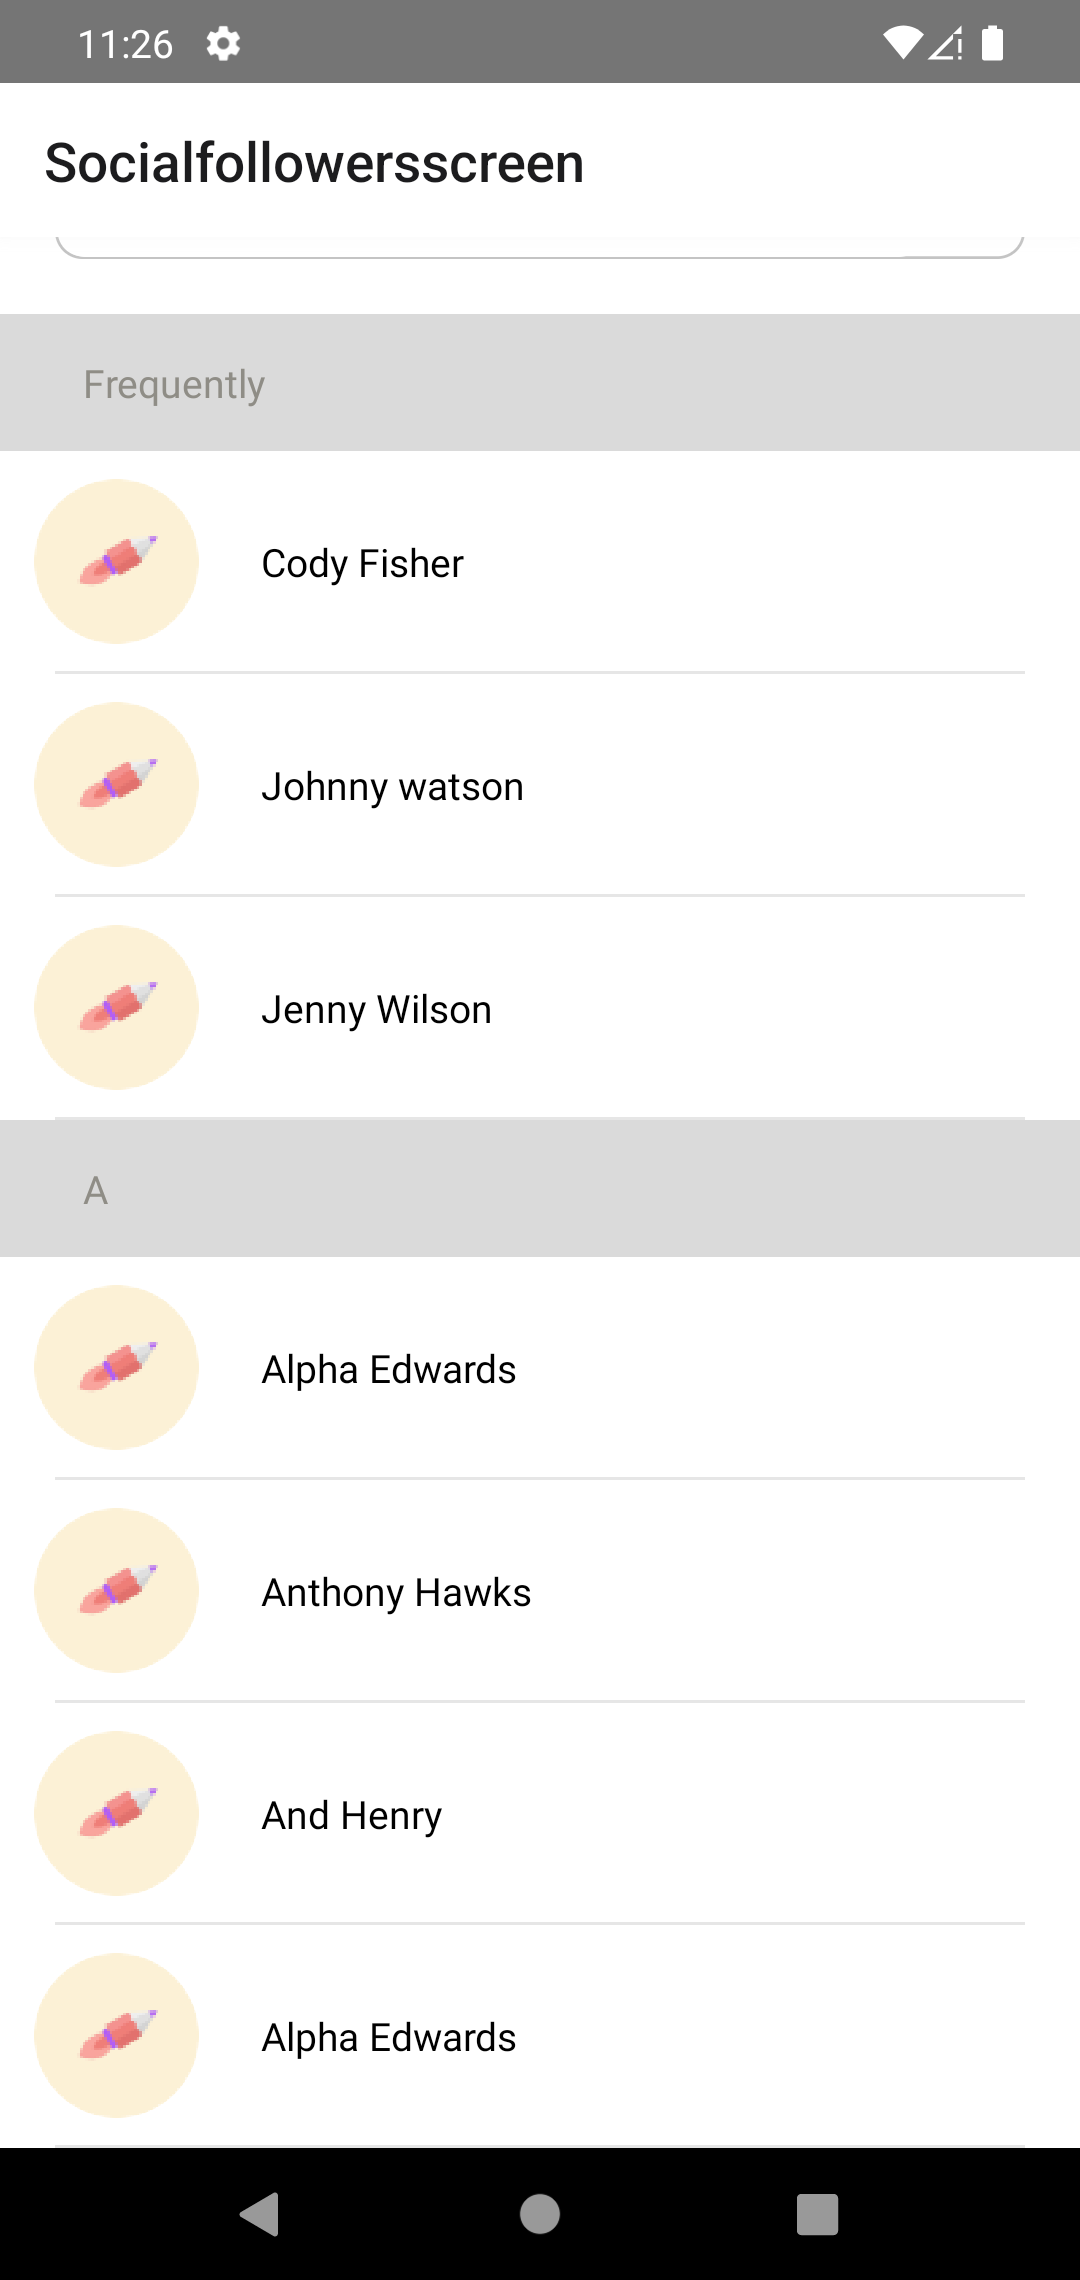
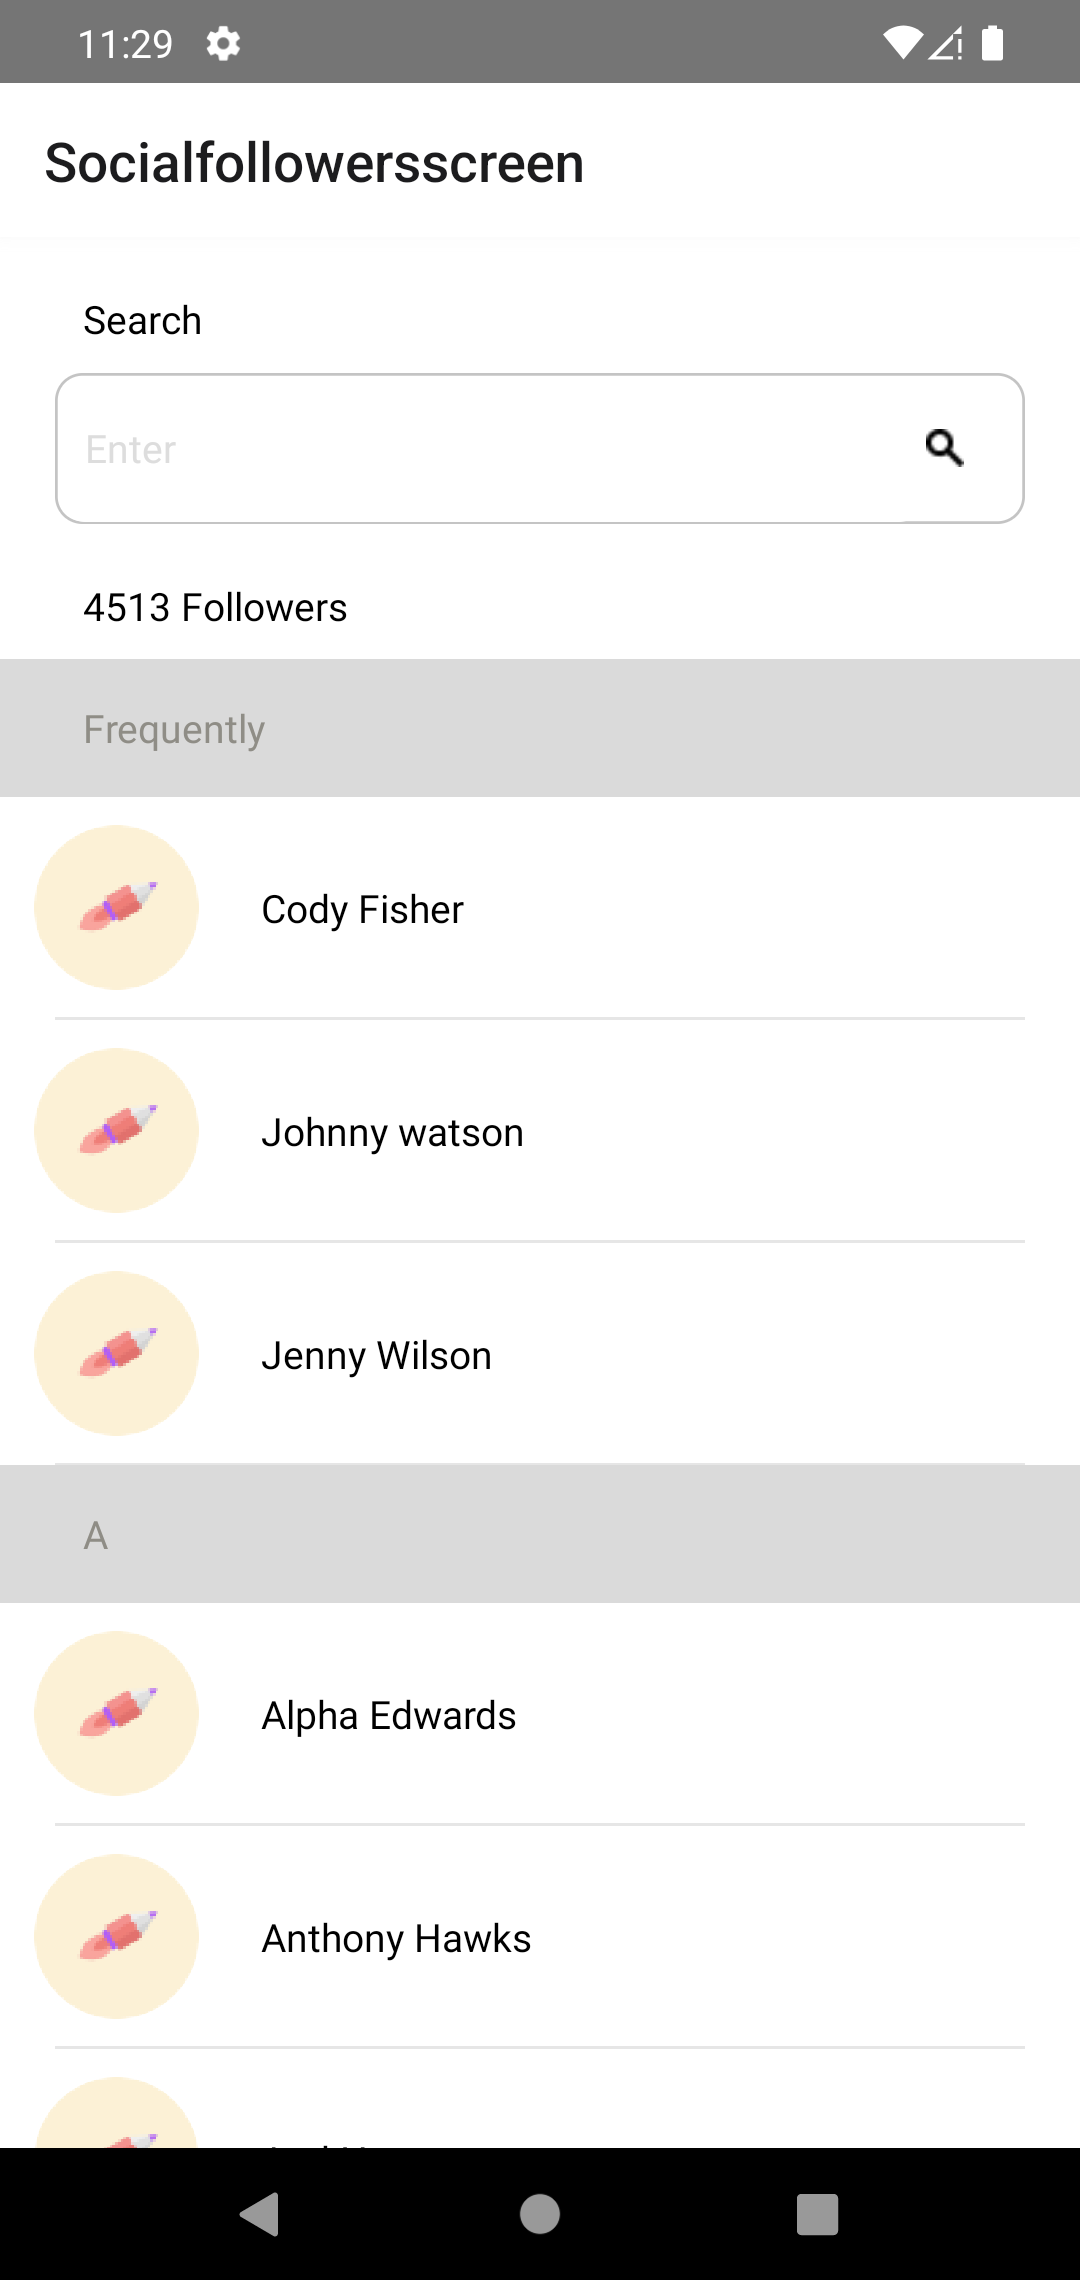
socialfollowersscreen fixed and preview updated

diff --git a/screens/Socialfollowersscreen/index.js b/screens/Socialfollowersscreen/index.js
@@ -49,7 +49,7 @@ const SocialFollowersScreen = params => {
         image: require("./assets/profile.png")
       }
     ]);
-    setNumFollowers(3);
+    setNumFollowers(4513);
   }, []);
   return (
     <ScrollView>
@@ -79,7 +79,7 @@ const SocialFollowersScreen = params => {
             <Image source={require("./assets/search.png")} />
           </View>
         </View>
-        <View></View>
+        <Text style={styles.numFollowers}>{numFollowers} Followers</Text>
         <View style={styles.separator}>
           <Text style={styles.separatorText}>Frequently</Text>
         </View>
@@ -121,6 +121,11 @@ const styles = StyleSheet.create({
   text: {
     marginLeft: 30,
     marginBottom: 10
+  },
+  numFollowers: {
+    marginLeft: 30,
+    marginBottom: 10,
+    fontSize: 14
   },
   separator: {
     height: 50,
